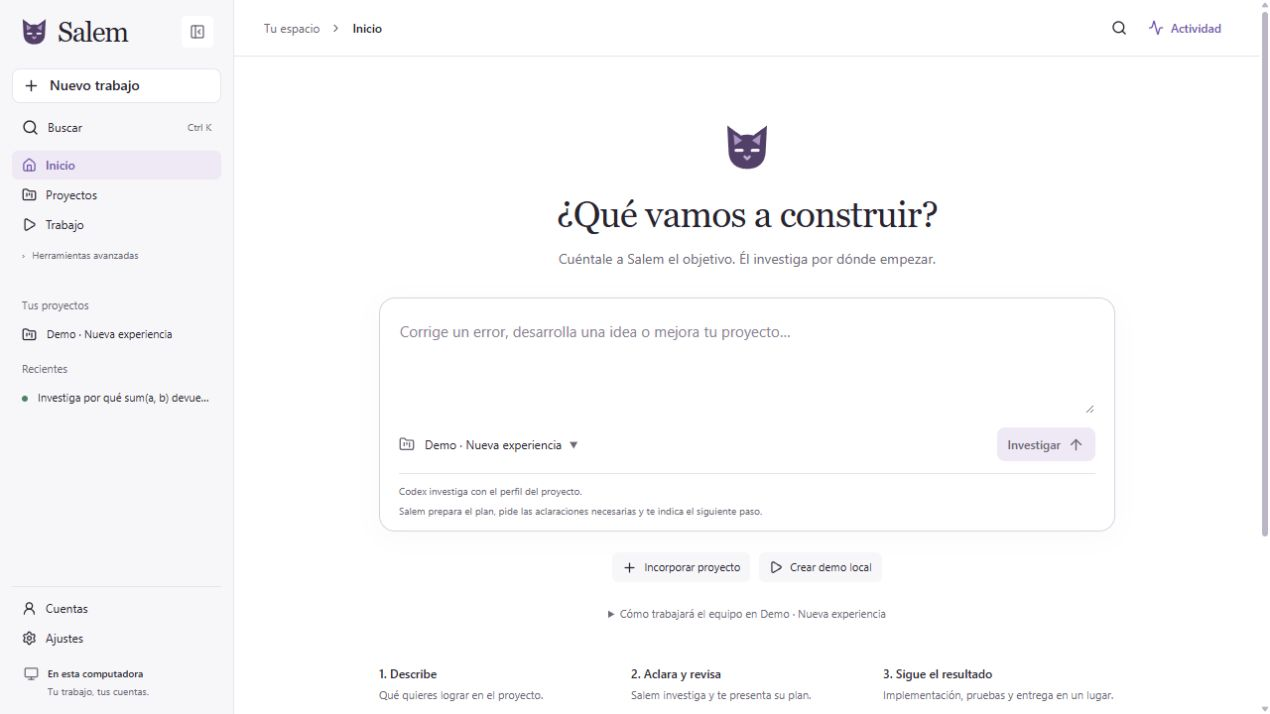
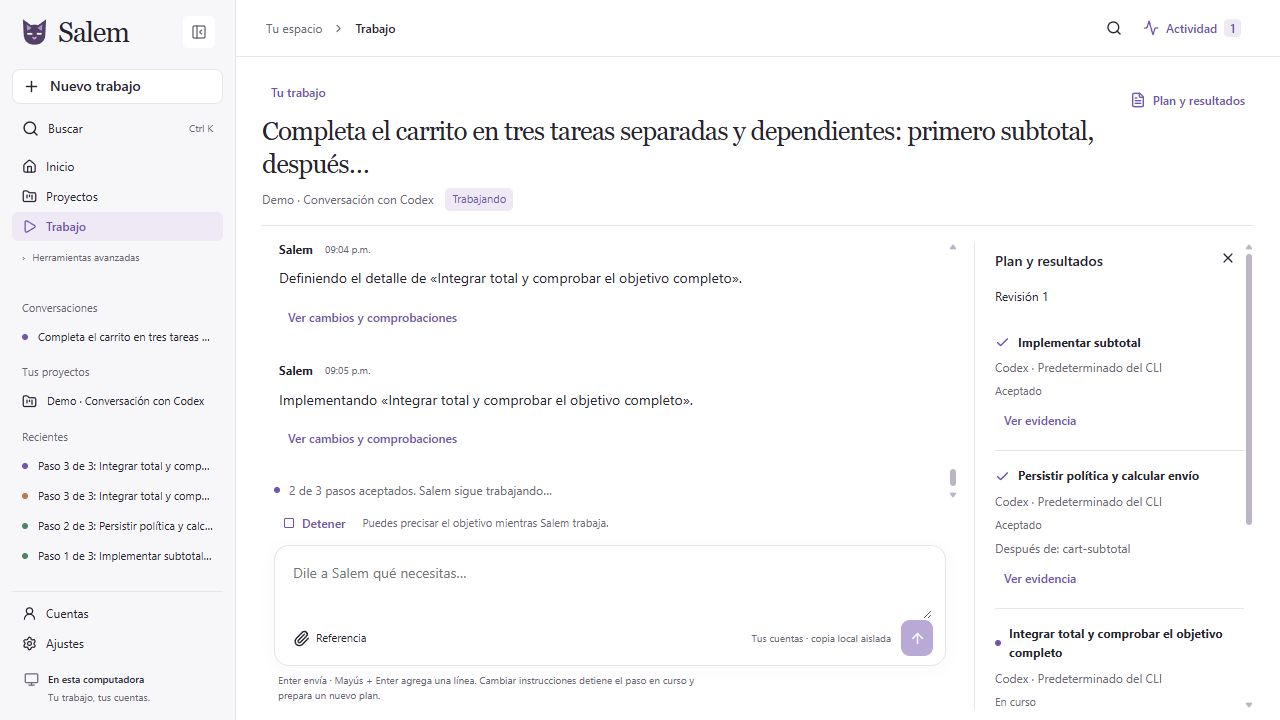
docs: present Salem workflow with current interface and examples

diff --git a/README.md b/README.md
@@ -1,26 +1,102 @@
-# Salem
+<p align="center">
+  <img src="ui/public/salem.svg" width="72" alt="Salem, el gato violeta">
+</p>
 
-[![CI Windows](https://github.com/88randy/Salem/actions/workflows/ci.yml/badge.svg?branch=main)](https://github.com/88randy/Salem/actions/workflows/ci.yml)
+<h1 align="center">Salem</h1>
 
-Un espacio local para trabajar con Claude y Codex sobre tus proyectos de software.
+<p align="center"><strong>De un objetivo a cambios comprobados, con Claude y Codex.</strong></p>
 
-Describe un objetivo en el chat. Salem investiga el repositorio, te hace las preguntas necesarias, crea las tareas y coordina implementación, pruebas y revisión con las cuentas que ya utilizas. Tú eliges los modelos, los límites y las acciones que puede realizar.
+<p align="center">
+  <a href="https://github.com/88randy/Salem/actions/workflows/ci.yml"><img src="https://github.com/88randy/Salem/actions/workflows/ci.yml/badge.svg?branch=main" alt="CI de Windows"></a>
+  <a href="https://github.com/88randy/Salem/releases"><img src="https://img.shields.io/github/v/release/88randy/Salem?include_prereleases&label=release" alt="Última versión publicada"></a>
+  <a href="LICENSE"><img src="https://img.shields.io/badge/license-MIT-blue.svg" alt="Licencia MIT"></a>
+  <img src="https://img.shields.io/badge/Windows-x64-7054a8.svg" alt="Windows x64">
+</p>
 
-**Beta local para Windows.** Consulta las [notas de la interfaz 0.4.0](docs/RELEASE-0.4.0.md) y los resultados de Actions para conocer la validación y sus límites. Código abierto bajo [MIT](LICENSE).
+<p align="center">
+  <a href="#empezar">Empezar</a> ·
+  <a href="#cómo-funciona">Cómo funciona</a> ·
+  <a href="#qué-aporta-a-tu-trabajo">Qué aporta</a> ·
+  <a href="#documentación">Documentación</a> ·
+  <a href="#contribuir">Contribuir</a>
+</p>
 
-![Inicio de Salem](.github/assets/salem.jpg)
+Salem es una aplicación local de **gestión de proyectos de software con agentes de IA**. Le explicas qué quieres conseguir y mantiene el hilo del trabajo: investiga el repositorio, aclara lo que falta, prepara tareas dependientes y coordina implementación, pruebas y revisión.
+
+Puedes trabajar con Claude, con Codex o con ambos. Salem utiliza los CLIs oficiales y las cuentas que conectes en tu computadora. Tú eliges los modelos y delegas los permisos; el controlador conserva el estado y comprueba la aceptación de cada resultado.
+
+![Conversación de Salem: un objetivo, el avance y las tareas del plan con acceso a sus comprobaciones](.github/assets/salem.jpg)
+
+*Demo local de gestión conversacional. La captura muestra trabajo real en una copia aislada; las funciones incluidas en cada descarga se detallan en sus notas de versión.*
+
+> [!NOTE]
+> **Beta local para Windows x64.** Este README describe la rama actual. Revisa [Releases](https://github.com/88randy/Salem/releases) para conocer las funciones y validaciones del instalador que descargues, y los [PR abiertos](https://github.com/88randy/Salem/pulls) para seguir el trabajo aún en desarrollo.
+
+## Qué aporta a tu trabajo
+
+Un cambio suele exigir entender el código, decidir por dónde empezar, repartir tareas, revisar resultados y retomar lo pendiente. Salem conserva esa gestión en una conversación con su plan y sus evidencias.
+
+| Lo que necesitas | Cómo te ayuda Salem |
+| --- | --- |
+| Pasar de una idea a un plan ejecutable | Investiga el proyecto, identifica dependencias y divide el objetivo en tareas con criterios de aceptación. |
+| Avanzar con pocas instrucciones | Toma decisiones técnicas dentro del perfil del proyecto. Cuando falta una decisión de producto que no puede deducir, te pregunta en el chat. |
+| Aprovechar tus agentes | Asigna implementaciones a los agentes permitidos y conserva los roles de definición y revisión que configuraste. |
+| Saber si el cambio funciona | Ejecuta los checks del proyecto y exige revisión en otra sesión. La última tarea comprueba también el resultado conjunto. |
+| Retomar sin perder el contexto | Guarda mensajes, planes, intentos, resultados y checkpoints. Conserva el trabajo aceptado cuando un paso falla. |
+| Entender qué pasó | Te muestra avances y permite abrir el diff, los checks, los logs y el uso reportado por cada ejecución. |
+
+El beneficio es dedicar menos atención a trasladar contexto y coordinar cada paso. El tiempo y las iteraciones se pueden medir; Salem no presenta estimaciones de ahorro como resultados demostrados.
+
+## Cómo funciona
+
+Escribe, por ejemplo:
+
+> «Completa el carrito: calcula el subtotal, aplica la política de envío y comprueba el total. Conserva la API y los verificadores existentes.»
+
+Salem investiga primero. Si falta la política de envío, te pregunta; con tu respuesta prepara el plan y trabaja paso a paso. Puedes precisar el objetivo, adjuntar referencias de texto, detener el trabajo o revisar sus resultados desde el mismo chat.
+
+```mermaid
+flowchart TD
+    A[Describes el objetivo] --> B[Salem investiga el proyecto]
+    B --> C{¿Falta una decisión de producto?}
+    C -->|Sí| D[Te pregunta en el chat]
+    D --> B
+    C -->|No| E[Prepara tareas y dependencias]
+    E --> F[La IA implementa un paso en una copia aislada]
+    F --> G{¿Pasan los checks del paso?}
+    G -->|Sí| H[Otra sesión revisa el resultado]
+    H --> I{¿Cumple la aceptación?}
+    G -->|No| J{¿Queda margen dentro de los límites?}
+    I -->|No| J
+    J -->|Sí| F
+    J -->|No| K[Se detiene y explica qué necesita]
+    I -->|Sí| L{¿Quedan tareas?}
+    L -->|Sí| F
+    L -->|No| M[Resultado conjunto comprobado y evidencia local]
+```
+
+**Salem orquesta; los modelos investigan, implementan y revisan.** El plan puede asignar cada implementación a un agente permitido por el perfil. Los proveedores, modelos, esfuerzos, roles y límites se configuran por proyecto. Una revisión debe realizarse en una sesión independiente de la implementación, aunque utilices un solo proveedor.
+
+Cada paso parte del último código aceptado, en una copia Git independiente. Un intento fallido conserva su evidencia y la base anterior. Si cambias las instrucciones, Salem detiene el trabajo en curso antes de preparar otra revisión del plan. Si el proveedor rechaza un modelo o agota su cuota, el flujo se detiene y lo informa; no cambia silenciosamente tu elección.
+
+La conversación entrega el resultado **localmente**. Publicar, integrar o desplegar se realiza mediante un flujo explícito de entrega y sus permisos delegados. [Leer la guía del chat →](docs/CONVERSATIONS.md)
 
 ## Empezar
 
-### Windows: aplicación instalada
+### Aplicación para Windows
 
-Descarga el instalador de [Releases](https://github.com/88randy/Salem/releases). La distribución incluye Node.js y abre Salem en tu navegador. Git y los CLIs oficiales de [Claude Code](https://code.claude.com/docs/en/setup) y [Codex](https://developers.openai.com/codex/cli) se instalan por separado.
+1. Descarga el instalador de [Releases](https://github.com/88randy/Salem/releases). Incluye Node.js; necesitas Git y los CLIs oficiales de [Claude Code](https://code.claude.com/docs/en/setup) o [Codex](https://developers.openai.com/codex/cli).
+2. Abre Salem y entra a **Cuentas** para comprobar o conectar los proveedores que vayas a utilizar.
+3. En **Proyectos**, incorpora una carpeta Git y revisa las comprobaciones detectadas, los agentes y los permisos.
+4. Ve a **Inicio**, elige el proyecto y describe lo que quieres lograr.
 
-La [guía de Windows](docs/WINDOWS.md) explica instalación, arranque, actualización y desinstalación. Los datos se conservan fuera de la carpeta de la aplicación. El instalador inicial no tiene firma digital; las descargas incluyen hashes para comprobar su integridad.
+Cada persona utiliza su propia computadora y sus propias cuentas. Si tus CLIs ya trabajan con una sesión de tu cuenta, Salem puede utilizarla sin pedirte otra API key. Las llamadas a modelos consumen la cuota o los créditos de esa cuenta.
+
+[Instalación, actualización y desinstalación →](docs/WINDOWS.md)
 
 ### Desde el código fuente
 
-Requiere Node.js22, npm y Git:
+Requiere **Node.js 22**, npm y Git:
 
 ```sh
 git clone https://github.com/88randy/Salem.git
@@ -29,49 +105,55 @@ npm ci
 npm run salem
 ```
 
-Abre la dirección que imprime la terminal, normalmente `http://127.0.0.1:3210`. En **Cuentas**, comprueba o conecta las sesiones oficiales de los proveedores que vayas a usar. Cada persona utiliza su propia computadora y sus propias cuentas. No necesitas una API key cuando el CLI utiliza tu sesión existente. El uso de modelos consume la cuota o los créditos de esa cuenta.
+Abre la dirección que imprime la terminal, normalmente `http://127.0.0.1:3210`. La interfaz se abre en tu navegador y el servidor escucha en tu equipo.
 
-## Qué puedes hacer
+## Qué puedes pedirle
 
-- **Incorporar proyectos:** detecta instrucciones, tecnologías y checks en una revisión Git local, sin ejecutar scripts durante la detección.
-- **Plantear objetivos:** investiga el código, identifica supuestos y preguntas, y prepara un plan con evidencia y criterios de aceptación.
-- **Gestionar desde el chat:** conversa sobre el objetivo, responde aclaraciones y ajusta las instrucciones. Salem coordina tareas dependientes y comprueba el resultado conjunto; el plan y sus evidencias quedan accesibles desde la conversación.
-- **Coordinar Claude y Codex:** asigna agentes a definición, implementación y revisión. El perfil inicial propone Opus5.5 con esfuerzo medio para definir/revisar y GPT-6.1 Sol para implementar; puedes cambiar modelos y roles.
-- **Ejecutar y comprobar:** trabaja en una copia aislada, ejecuta los checks del proyecto y exige revisión en otra sesión antes de aceptar código.
-- **Seguir y recuperar:** conserva estado, etapas, diffs, logs y recibos. Permite cancelar, reanudar desde checkpoints verificables o iniciar otra ejecución conservando la anterior.
-- **Entregar con permisos explícitos:** configura commits, PR, integración o despliegue cuando quieras delegar esas acciones. Registrar un proyecto no las habilita.
-- **Probar mejoras:** reproduce un fallo con la aceptación existente, evalúa una candidata y puede aplicarla con respaldo. Repite los checks y ofrece reversión y recuperación ante una interrupción.
-- **Medir:** muestra tiempos, iteraciones y uso reportado por los proveedores. Los datos desconocidos permanecen desconocidos; no se presentan como ahorro demostrado.
+| Ejemplo de objetivo | Qué hace el flujo |
+| --- | --- |
+| «Investiga por qué falla este cálculo y corrígelo conservando la API.» | Investiga la causa, prepara el trabajo y comprueba la corrección. |
+| «Agrega esta validación y cubre los casos límite con los checks del proyecto.» | Organiza los pasos, implementa y exige aceptación verificable. |
+| «Explícame cómo funciona este módulo antes de cambiarlo.» | Puede responder tras investigar, sin iniciar una implementación. |
+| «Continúa con este ajuste y conserva lo que ya está aceptado.» | Replantea lo pendiente sobre el último resultado aceptado. |
 
-## Cómo colaboran las IA
+El contexto y las comprobaciones del repositorio importan. Salem puede detectar tecnologías, instrucciones y checks al incorporarlo; los verificadores nuevos propuestos por un agente requieren revisar explícitamente el perfil. La conversación no altera sus propias reglas de aceptación para conseguir un resultado verde.
 
-La interfaz reúne tu trabajo en una navegación lateral con proyectos y recientes. Desde **Inicio** puedes investigar un objetivo sin preparar manualmente una tarea. **Buscar** (Ctrl+K) encuentra proyectos, tareas, objetivos, ejecuciones y mejoras. **Actividad** reúne los procesos en curso y su historial; cada resultado abre su detalle. Las ejecuciones muestran el contexto y los agentes a un lado, con checks, cambios, logs, métricas y entrega en sus pestañas.
+## También incluye
 
-En **Ajustes** puedes elegir tema claro, oscuro o del sistema. Esta preferencia se guarda en el navegador, separada de los ajustes del servidor y de los perfiles de proyecto.
+- **Espacio de trabajo:** proyectos, conversaciones, búsqueda, recientes y actividad. Las herramientas avanzadas conservan acceso a tareas, investigaciones y ejecuciones individuales.
+- **Perfiles de proyecto:** agentes, modelos, preparación del entorno, checks, capacidades y presupuestos de tiempo, intentos y uso.
+- **Recuperación:** estado durable, pausas, cancelación de procesos propios y continuación desde checkpoints verificables.
+- **Entrega delegada:** commits, PR, integración y despliegue cuando configuras y autorizas esas capacidades.
+- **Evolución con pruebas:** propone y evalúa mejoras con la aceptación existente; puede aplicar una candidata validada con respaldo y reversión.
+- **Métricas:** tiempos, iteraciones y uso informado por los proveedores. Los valores no reportados permanecen desconocidos.
 
-Salem es el controlador del flujo. Las IA investigan, proponen, implementan y revisan; el controlador conserva el estado y comprueba las reglas. Puedes usar ambos proveedores o configurar uno solo. No hace falta que compartan credenciales ni que editen simultáneamente los mismos archivos.
+## Tus datos, permisos y límites
 
-Los modelos y esfuerzos se configuran por agente en **Proyectos → Agentes y etapas**. Hay opciones sugeridas, el predeterminado del CLI y un valor personalizado. La disponibilidad depende de tu cuenta, cliente y organización. Salem no cambia silenciosamente el modelo si el proveedor lo rechaza. Los perfiles existentes conservan sus elecciones.
+Los proyectos y evidencias permanecen en tu equipo. Las credenciales siguen en el almacenamiento oficial de cada CLI; las consultas a modelos envían contexto al proveedor correspondiente. El servidor escucha únicamente en `127.0.0.1`.
 
-## Tus datos y tu control
+Editar, crear commits, publicar, integrar y desplegar son capacidades separadas. Registrar un proyecto no las habilita todas. La autoevolución tampoco puede cambiar verificadores, instrucciones, permisos o reglas de aceptación.
 
-El servidor escucha únicamente en `127.0.0.1`. Las sesiones permanecen en el almacenamiento oficial de cada CLI. Salem conserva proyectos, configuraciones y evidencias en tu equipo; las consultas a modelos sí requieren conexión y envían contexto al proveedor correspondiente.
+La beta tiene límites concretos:
 
-Los permisos de editar, crear commits, publicar, integrar y desplegar se delegan por separado. La autoevolución no puede cambiar las reglas de aceptación, verificadores, instrucciones o permisos. Aplicar una mejora modifica código fuente; no sustituye automáticamente el programa instalado.
+- Se verifica en **Windows x64**. No se acredita compatibilidad con otros sistemas, navegadores o dispositivos por pasar una demo local.
+- El coordinador ejecuta **una tarea a la vez por conversación**. Las referencias adjuntas del chat son archivos de texto UTF-8.
+- El instalador aún **no tiene firma digital**. Las descargas incluyen hashes de integridad.
+- Los agentes y checks corren con tu usuario. Una copia Git y los límites de herramientas no constituyen una sandbox del sistema operativo.
 
-Los agentes y checks se ejecutan con tu usuario del sistema. Una copia Git y los límites de herramientas no constituyen una sandbox frente a código malicioso. Revisa los proyectos y comandos que decidas ejecutar. Lee [seguridad](SECURITY.md) antes de exponer datos o reportar un problema.
+Consulta [seguridad](SECURITY.md) y las [notas de versión](https://github.com/88randy/Salem/releases) antes de decidir qué trabajo delegar.
 
 ## Documentación
 
-- [Guía completa de Salem](docs/SALEM.md)
-- [Gestión conversacional](docs/CONVERSATIONS.md)
-- [Windows: instalar y operar](docs/WINDOWS.md)
-- [Modelos y colaboración](docs/MODELS.md)
-- [Supervisor y recuperación](docs/SUPERVISOR.md)
-- [Checks y aceptación](docs/CHECKS.md)
-- [Entrega y capacidades](docs/DELIVERY.md)
-- [Métricas y sus límites](docs/METRICS.md)
-- [Contribuir](CONTRIBUTING.md)
+| Guía | Para qué sirve |
+| --- | --- |
+| [Gestión conversacional](docs/CONVERSATIONS.md) | Objetivos, preguntas, tareas, continuidad y resultados del chat. |
+| [Windows](docs/WINDOWS.md) | Instalar, actualizar, operar y conservar los datos. |
+| [Modelos y colaboración](docs/MODELS.md) | Configurar proveedores, modelos, esfuerzos y roles. |
+| [Checks y aceptación](docs/CHECKS.md) | Entender qué permite aceptar o detener un cambio. |
+| [Supervisor y recuperación](docs/SUPERVISOR.md) | Checkpoints, interrupciones y continuación. |
+| [Entrega y capacidades](docs/DELIVERY.md) | Delegar commits, PR, integración o despliegue. |
+| [Métricas](docs/METRICS.md) | Interpretar mediciones y sus límites. |
+| [Guía completa](docs/SALEM.md) | Consultar el funcionamiento general del framework. |
 
 ## Desarrollo
 
@@ -84,10 +166,14 @@ npm run test:ui
 npm run test:distribution
 ```
 
-Las pruebas automatizadas utilizan subprocess de fixtures y no consumen cuota de IA. Las pruebas con cuentas reales se ejecutan por separado y se identifican como tales. Para usar Chrome instalado en vez del Chromium de Playwright, define `PLAYWRIGHT_CHANNEL=chrome`.
+Las pruebas automatizadas usan procesos de fixtures y no consumen cuota de IA. Las pruebas con cuentas reales se ejecutan por separado y se identifican como tales. Para usar Chrome instalado, define `PLAYWRIGHT_CHANNEL=chrome`.
 
-El workflow de GitHub comprueba Windows. La existencia del workflow no sustituye sus resultados: revisa Actions y las notas de cada versión. No se acredita compatibilidad con macOS/Linux o un despliegue de producción por haber pasado el demo.
+[Actions](https://github.com/88randy/Salem/actions) muestra el resultado por revisión. Un workflow definido, una prueba omitida o una simulación no acreditan por sí solos una ejecución real de los proveedores.
 
-## Comunidad y licencia
+## Contribuir
 
-Las propuestas y reproducciones pequeñas son bienvenidas en Issues. Consulta [CONTRIBUTING.md](CONTRIBUTING.md) antes de abrir un PR. El código propio se distribuye bajo MIT; las dependencias conservan sus [avisos de terceros](THIRD_PARTY_NOTICES.md). Salem es un proyecto independiente y no está afiliado a Anthropic ni OpenAI.
+Salem es código abierto. Si encuentras un problema, comparte los pasos para reproducirlo y el comportamiento esperado en [Issues](https://github.com/88randy/Salem/issues). Las propuestas de experiencia, adaptadores, pruebas y documentación también son bienvenidas.
+
+Lee [CONTRIBUTING.md](CONTRIBUTING.md) para preparar una contribución revisable y [SECURITY.md](SECURITY.md) para reportar vulnerabilidades. Evita incluir credenciales, datos privados o logs sin revisar.
+
+Distribuido bajo [MIT](LICENSE). Las dependencias conservan sus [avisos de terceros](THIRD_PARTY_NOTICES.md). Salem es independiente y no está afiliado a Anthropic ni OpenAI.
